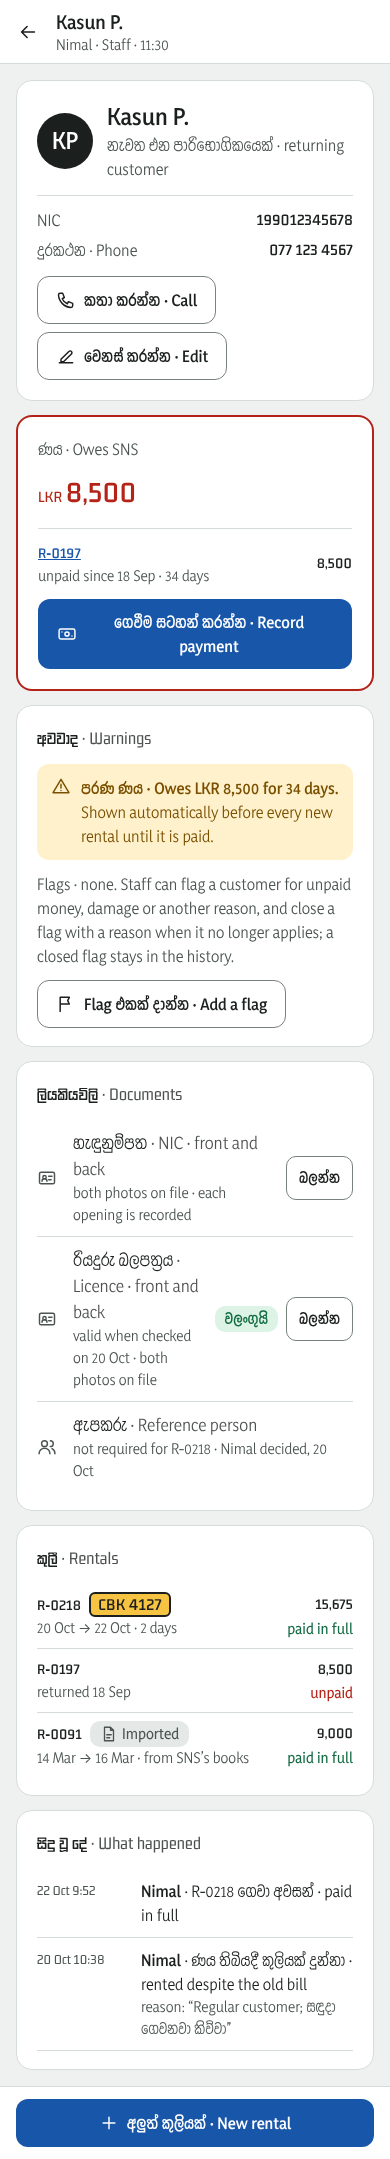
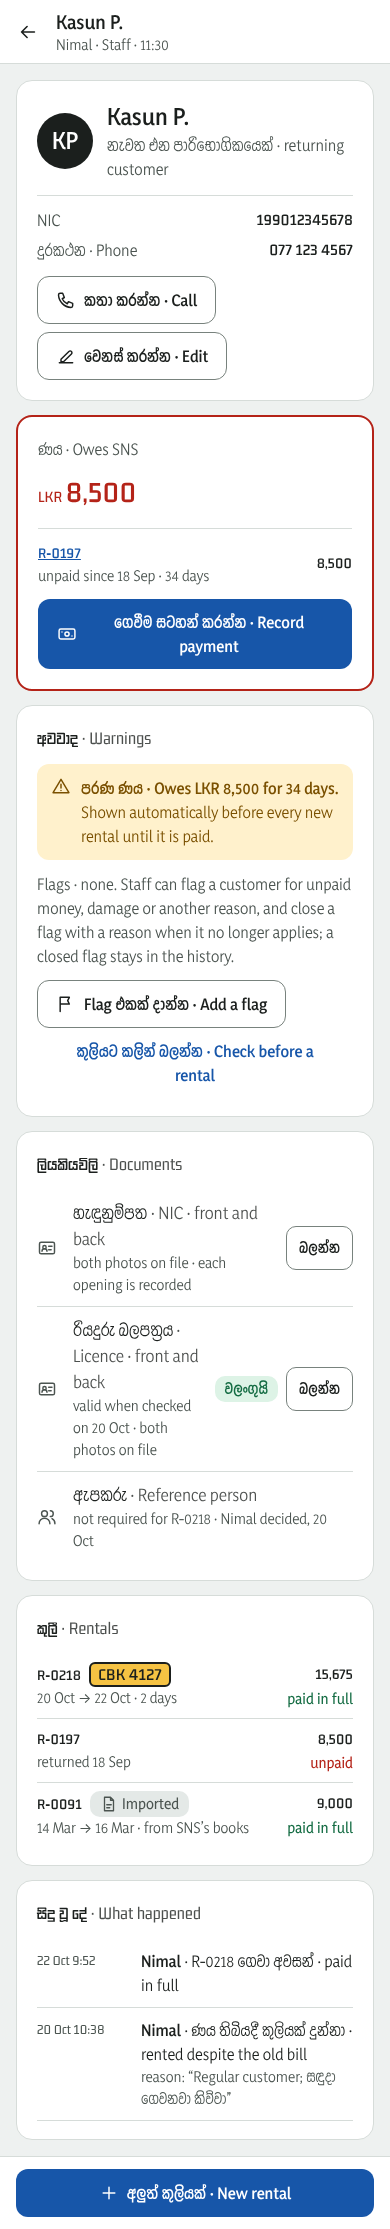
decision(customers): flags, closing them, and checking before a rental (#24)
System design 6 (Proposed: Dulan, 4 Nov 2026; for the owner to
confirm): people with "Customer access" add and close flags; until New
rental exists (Phase 2), "Check before a rental" on the customer's page
shows open flags and an expired driving licence and records a decision
to continue (name, time, reason); an expired licence needs "Override
expired-document warnings". PRD ST-08.4, ST-08.5; TRD Customers row
(customer_flag, customer_go_ahead); board 08.3 gains the check button.

AT-48.

Claude-Session: https://claude.ai/code/session_01JihUABmzkdXJus8B6m8jnW

diff --git a/screens/canvas/08-Customers-CustomerDetails-Phone.dc.html b/screens/canvas/08-Customers-CustomerDetails-Phone.dc.html
@@ -48,7 +48,7 @@ a{color:#1756a9}a:hover{color:#0f3e7e}
     <span><b>පරණ ණය · Owes LKR 8,500 for 34 days.</b> Shown automatically before every new rental until it is paid.</span>
   </div>
   <div style="font-size: 15px; line-height: 24px; color: var(--ink-muted)">Flags · none. Staff can flag a customer for unpaid money, damage or another reason, and close a flag with a reason when it no longer applies; a closed flag stays in the history.</div>
-  <div><a href="08-Customers-AddFlag-Phone.dc.html" class="rt-btn rt-btn-secondary" style="box-sizing: border-box; text-decoration: none; color: var(--ink)"><x-import component-from-global-scope="Plate.Icon" name="flag" size="{{twenty}}"></x-import><span>Flag එකක් දාන්න · Add a flag</span></a></div>
+  <div><a href="08-Customers-AddFlag-Phone.dc.html" class="rt-btn rt-btn-secondary" style="box-sizing: border-box; text-decoration: none; color: var(--ink)"><x-import component-from-global-scope="Plate.Icon" name="flag" size="{{twenty}}"></x-import><span>Flag එකක් දාන්න · Add a flag</span></a><a href="08-Customers-Warnings-Phone.dc.html" class="rt-btn rt-btn-quiet" style="box-sizing: border-box; text-decoration: none; color: var(--sapphire)"><span>කුලියට කලින් බලන්න · Check before a rental</span></a></div>
 </section>
     <section style="display: flex; flex-direction: column; gap: 12px; padding: 18px 20px; background: var(--card); border: 1px solid var(--line); border-radius: 16px">
   <div style="display: flex; align-items: center; gap: 10px; flex-wrap: wrap"><h2 style="margin: 0; font-size: 18px; line-height: 28px; font-weight: 600">ලියකියවිලි <span class="rt-en">· Documents</span></h2></div>
@@ -90,7 +90,7 @@ a{color:#1756a9}a:hover{color:#0f3e7e}
   <div style="padding: 12px 16px; background: var(--card); border-top: 1px solid var(--line)"><a href="05-NewRental-Customer-Phone.dc.html" class="rt-btn rt-btn-primary rt-btn-full" style="box-sizing: border-box; text-decoration: none; color: var(--on-sapphire)"><x-import component-from-global-scope="Plate.Icon" name="plus" size="{{twenty}}"></x-import><span>අලුත් කුලියක් · New rental</span></a></div>
 </div>
 </x-dc>
-<script type="text/x-dc" data-dc-script data-props='{"$preview":{"width":390,"height":2159}}'>
+<script type="text/x-dc" data-dc-script data-props='{"$preview":{"width":390,"height":2229}}'>
 class Component extends DCLogic {
   renderVals() {
     return {

diff --git a/screens/previews/html/08-Customers-CustomerDetails-Desktop.html b/screens/previews/html/08-Customers-CustomerDetails-Desktop.html
@@ -559,7 +559,7 @@ a{color:#1756a9}a:hover{color:#0f3e7e}
     <span><b>පරණ ණය · Owes LKR 8,500 for 34 days.</b> Shown automatically before every new rental until it is paid.</span>
   </div>
   <div style="font-size: 15px; line-height: 24px; color: var(--ink-muted)">Flags · none. Staff can flag a customer for unpaid money, damage or another reason, and close a flag with a reason when it no longer applies; a closed flag stays in the history.</div>
-  <div><a href="08-Customers-AddFlag-Desktop.html" class="rt-btn rt-btn-secondary" style="box-sizing: border-box; text-decoration: none; color: var(--ink)"><span data-x-import="Plate.Icon" style="display: contents;"><svg class="rt-ico" width="20" height="20" viewBox="0 0 24 24" fill="none" stroke="currentColor" stroke-width="1.75" stroke-linecap="round" stroke-linejoin="round" aria-hidden="true"><path d="M5 21V4M5 4h11l-2 4 2 4H5"></path></svg></span><span>Flag එකක් දාන්න · Add a flag</span></a></div>
+  <div><a href="08-Customers-AddFlag-Desktop.html" class="rt-btn rt-btn-secondary" style="box-sizing: border-box; text-decoration: none; color: var(--ink)"><span data-x-import="Plate.Icon" style="display: contents;"><svg class="rt-ico" width="20" height="20" viewBox="0 0 24 24" fill="none" stroke="currentColor" stroke-width="1.75" stroke-linecap="round" stroke-linejoin="round" aria-hidden="true"><path d="M5 21V4M5 4h11l-2 4 2 4H5"></path></svg></span><span>Flag එකක් දාන්න · Add a flag</span></a><a href="08-Customers-Warnings-Desktop.html" class="rt-btn rt-btn-quiet" style="box-sizing: border-box; text-decoration: none; color: var(--sapphire)"><span>කුලියට කලින් බලන්න · Check before a rental</span></a></div>
 </section>
         <section style="display: flex; flex-direction: column; gap: 12px; padding: 18px 20px; background: var(--card); border: 1px solid var(--line); border-radius: 16px">
   <div style="display: flex; align-items: center; gap: 10px; flex-wrap: wrap"><h2 style="margin: 0; font-size: 18px; line-height: 28px; font-weight: 600">ලියකියවිලි <span class="rt-en">· Documents</span></h2></div>

diff --git a/screens/previews/html/08-Customers-CustomerDetails-Phone.html b/screens/previews/html/08-Customers-CustomerDetails-Phone.html
@@ -568,7 +568,7 @@ a{color:#1756a9}a:hover{color:#0f3e7e}
     <span><b>පරණ ණය · Owes LKR 8,500 for 34 days.</b> Shown automatically before every new rental until it is paid.</span>
   </div>
   <div style="font-size: 15px; line-height: 24px; color: var(--ink-muted)">Flags · none. Staff can flag a customer for unpaid money, damage or another reason, and close a flag with a reason when it no longer applies; a closed flag stays in the history.</div>
-  <div><a href="08-Customers-AddFlag-Phone.html" class="rt-btn rt-btn-secondary" style="box-sizing: border-box; text-decoration: none; color: var(--ink)"><span data-x-import="Plate.Icon" style="display: contents;"><svg class="rt-ico" width="20" height="20" viewBox="0 0 24 24" fill="none" stroke="currentColor" stroke-width="1.75" stroke-linecap="round" stroke-linejoin="round" aria-hidden="true"><path d="M5 21V4M5 4h11l-2 4 2 4H5"></path></svg></span><span>Flag එකක් දාන්න · Add a flag</span></a></div>
+  <div><a href="08-Customers-AddFlag-Phone.html" class="rt-btn rt-btn-secondary" style="box-sizing: border-box; text-decoration: none; color: var(--ink)"><span data-x-import="Plate.Icon" style="display: contents;"><svg class="rt-ico" width="20" height="20" viewBox="0 0 24 24" fill="none" stroke="currentColor" stroke-width="1.75" stroke-linecap="round" stroke-linejoin="round" aria-hidden="true"><path d="M5 21V4M5 4h11l-2 4 2 4H5"></path></svg></span><span>Flag එකක් දාන්න · Add a flag</span></a><a href="08-Customers-Warnings-Phone.html" class="rt-btn rt-btn-quiet" style="box-sizing: border-box; text-decoration: none; color: var(--sapphire)"><span>කුලියට කලින් බලන්න · Check before a rental</span></a></div>
 </section>
     <section style="display: flex; flex-direction: column; gap: 12px; padding: 18px 20px; background: var(--card); border: 1px solid var(--line); border-radius: 16px">
   <div style="display: flex; align-items: center; gap: 10px; flex-wrap: wrap"><h2 style="margin: 0; font-size: 18px; line-height: 28px; font-weight: 600">ලියකියවිලි <span class="rt-en">· Documents</span></h2></div>

diff --git a/screens/canvas/08-Customers-CustomerDetails-Desktop.dc.html b/screens/canvas/08-Customers-CustomerDetails-Desktop.dc.html
@@ -39,7 +39,7 @@ a{color:#1756a9}a:hover{color:#0f3e7e}
     <span><b>පරණ ණය · Owes LKR 8,500 for 34 days.</b> Shown automatically before every new rental until it is paid.</span>
   </div>
   <div style="font-size: 15px; line-height: 24px; color: var(--ink-muted)">Flags · none. Staff can flag a customer for unpaid money, damage or another reason, and close a flag with a reason when it no longer applies; a closed flag stays in the history.</div>
-  <div><a href="08-Customers-AddFlag-Desktop.dc.html" class="rt-btn rt-btn-secondary" style="box-sizing: border-box; text-decoration: none; color: var(--ink)"><x-import component-from-global-scope="Plate.Icon" name="flag" size="{{twenty}}"></x-import><span>Flag එකක් දාන්න · Add a flag</span></a></div>
+  <div><a href="08-Customers-AddFlag-Desktop.dc.html" class="rt-btn rt-btn-secondary" style="box-sizing: border-box; text-decoration: none; color: var(--ink)"><x-import component-from-global-scope="Plate.Icon" name="flag" size="{{twenty}}"></x-import><span>Flag එකක් දාන්න · Add a flag</span></a><a href="08-Customers-Warnings-Desktop.dc.html" class="rt-btn rt-btn-quiet" style="box-sizing: border-box; text-decoration: none; color: var(--sapphire)"><span>කුලියට කලින් බලන්න · Check before a rental</span></a></div>
 </section>
         <section style="display: flex; flex-direction: column; gap: 12px; padding: 18px 20px; background: var(--card); border: 1px solid var(--line); border-radius: 16px">
   <div style="display: flex; align-items: center; gap: 10px; flex-wrap: wrap"><h2 style="margin: 0; font-size: 18px; line-height: 28px; font-weight: 600">ලියකියවිලි <span class="rt-en">· Documents</span></h2></div>
@@ -97,7 +97,7 @@ a{color:#1756a9}a:hover{color:#0f3e7e}
   </div>
 </div>
 </x-dc>
-<script type="text/x-dc" data-dc-script data-props='{"$preview":{"width":1280,"height":1047}}'>
+<script type="text/x-dc" data-dc-script data-props='{"$preview":{"width":1280,"height":1095}}'>
 class Component extends DCLogic {
   renderVals() {
     return {

diff --git a/SNS_SYSTEM_DESIGN.md b/SNS_SYSTEM_DESIGN.md
@@ -233,7 +233,7 @@ An accessories checklist and the fuel level are recorded at handover and return.
 
 An expired customer driving licence triggers a warning. An authorised person may override it with a reason. An override does not make the licence legally valid.
 
-Staff may flag a customer for unpaid balances, damage, or other issues. Warnings appear before future rentals; employees may proceed with a recorded reason. Employees or admins close a flag with a reason (for example, the money was paid); it stops warning but stays in the customer's history with who closed it and when. Nothing is deleted. Confirmed: agreed by the owner, recorded by Dulan. An unpaid customer debt warns on its own, as a flag does, before every new rental until it is paid or written off; employees may proceed with a recorded reason. Confirmed: agreed by the owner, recorded by Dulan.
+Staff may flag a customer for unpaid balances, damage, or other issues. Warnings appear before future rentals; employees may proceed with a recorded reason. Employees or admins close a flag with a reason (for example, the money was paid); it stops warning but stays in the customer's history with who closed it and when. Nothing is deleted. Confirmed: agreed by the owner, recorded by Dulan. An unpaid customer debt warns on its own, as a flag does, before every new rental until it is paid or written off; employees may proceed with a recorded reason. Confirmed: agreed by the owner, recorded by Dulan. Flags are added and closed by people with "Customer access" (staff, admin and owner by default; never partners); a flag needs its reason (unpaid money, damaged a car, something else) and what happened. Until rentals come (Phase 2), each customer's page has "Check before a rental": it shows the open flags and an expired driving licence, and "Continue with reason" records the decision with the person's name and the time. With an expired licence only people with "Override expired-document warnings" may continue. Proposed: Dulan, 4 Nov 2026; for the owner to confirm.
 
 **Document copies.** Customer and reference-person ID and licence copies are kept while the customer is active and for 7 years after their last rental or settled debt. The system then lists them for the primary owner, who deletes them; a signed agreement stays with its rental. Staff and admins with customer access can open copies; every opening is logged with who and when. Copies are never shared outside the system. Confirmed: agreed by the owner, recorded by Dulan; SNS should check the period against Sri Lankan law (Personal Data Protection Act) before go-live. The copies are four photos or scans: NIC front and back, licence front and back; each is a photo (JPEG, PNG, WebP or HEIC) or a PDF of up to 10 MB, kept as taken. Whether a reference person is needed is decided for each rental, with the rental (Phase 2). A customer shows "copies missing", and handover stays blocked, until all four copies are in. A customer's NIC is a Sri Lankan NIC as on the card (9 digits and V or X, or 12 digits; a renter without one is Open, §18); the phone number has 9 to 15 digits, with a + for a foreign number; the licence number is kept in capitals. A mistyped NIC is corrected only by the primary owner or the admin, with a reason, and never to a NIC another customer has; the log keeps the old and new NIC. Each opening of a copy is also in the activity log. Proposed: Dulan, 1 Nov 2026; for the owner to confirm.
 

diff --git a/PRD.md b/PRD.md
@@ -329,6 +329,7 @@ Month 1: who signs in and what they may do, customers and their documents, cars 
   - An expired driving licence warns; only an authorised person may go ahead, with a reason. Going ahead does not make the licence valid. System design → [Customer onboarding and mandatory documents](SNS_SYSTEM_DESIGN.md#6-customer-onboarding-and-mandatory-documents).
   - The reason is recorded with the name and the time, and goes into the owner's daily summary. System design → [Daily vehicle checks and exception monitoring](SNS_SYSTEM_DESIGN.md#12-daily-vehicle-checks-and-exception-monitoring).
 - **Checks:** *Proposed check:* with an expired licence, staff without the permission cannot go ahead; the authorised person can, with a reason, and the licence still shows as expired. *Proposed check:* with a flag, staff go ahead only after typing a reason; the reason, name and time are recorded.
+- *Proposed (Dulan, 4 Nov 2026):* until New rental exists, "Check before a rental" on the customer's page shows the warnings and records a decision to continue (name, time, reason); an expired licence needs "Override expired-document warnings". System design → [Customer onboarding and mandatory documents](SNS_SYSTEM_DESIGN.md#6-customer-onboarding-and-mandatory-documents).
 - **Screens:** 08.4 Flag and expired licence warning.
 
 #### ST-08.5 · Flag a customer
@@ -342,6 +343,7 @@ Month 1: who signs in and what they may do, customers and their documents, cars 
   - Staff or admins close a flag with a reason, for example when the money is paid. A closed flag stops warning but stays in the customer's history with who closed it and when; nothing is deleted. System design → [Customer onboarding and mandatory documents](SNS_SYSTEM_DESIGN.md#6-customer-onboarding-and-mandatory-documents).
   - No ratings or scores (PR-14). Flags from SNS's books come with imported customers. System design → [Starting data](SNS_SYSTEM_DESIGN.md#starting-data).
 - **Checks:** AT-48 "Staff close a customer's flag with a reason: no warning at the next rental; the flag, its reason, who closed it and when stay in the history". *Proposed check:* a flagged customer shows the flag before the next rental, to every person.
+- *Proposed (Dulan, 4 Nov 2026):* people with "Customer access" add and close flags. System design → [Customer onboarding and mandatory documents](SNS_SYSTEM_DESIGN.md#6-customer-onboarding-and-mandatory-documents).
 - **Screens:** 08.5 Add a customer flag.
 
 ### 04 Cars

diff --git a/TRD.md b/TRD.md
@@ -73,7 +73,7 @@ Tables follow the system design's core records (Logical structure, Core records 
 | Area | Tables |
 | --- | --- |
 | Identity | `user`, `session`, `account`, `verification` (Better Auth), `permission_grant`, `audit_event` |
-| Customers | `customer` (NIC unique), `customer_flag` (open/closed, reason, closed_by), `reference_person`, `customer_document` (a customer's private copies; later agreement photos and reference-person copies get their own tables), `document_access` (who opened what, when). Copies are insert-only until the 7-year deletion list is built: that migration lets the owner's deletion remove them |
+| Customers | `customer` (NIC unique), `customer_flag` (open/closed, reason, closed_by; insert-only apart from closing it once), `customer_go_ahead` (insert-only: a decision to continue despite warnings, with the flags and licence shown, the reason, who and when), `reference_person`, `customer_document` (a customer's private copies; later agreement photos and reference-person copies get their own tables), `document_access` (who opened what, when). Copies are insert-only until the 7-year deletion list is built: that migration lets the owner's deletion remove them |
 | Cars | `vehicle` (with its `partner_owner`, once linked), `partner_owner` (the partner's `user` account, NIC, bank account, agreement signed on), `vehicle_terms_version` (rate, km, extra km, commission, surcharge, garage-day, cost responsibilities; effective from), `starting_package` (a name, rate, km a day, extra km), `starting_package_model` (which models a package is for; a model can be in several), `vehicle.starting_package_id` (the package the car started from), `package_default` (the shared defaults), `vehicle` papers columns (insurance and licence expiry, next service date and km; old values in the activity log), `vehicle_photo` (insert-only: the newest row is the catalogue photo, a row without a file removes it; the file in private storage), `vehicle_status_event` (insert-only: status, reason, expected back, retired on; the newest is the car's status) |
 | Rentals | `reservation`, `rental`, `rental_terms_snapshot`, `rental_vehicle_segment` (car, readings, saved terms, swap-day decision), `rental_event` (extension, swap, return) |
 | Charges and money | `charge`, `adjustment`, `payment`, `payment_allocation`, `deposit_movement`, `refund`, `cash_movement`, `reconciliation` (waiting/matched/flagged), `discrepancy` |
